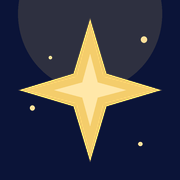
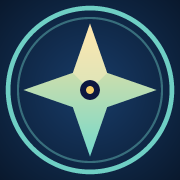
Distinct compass identity, per-day activity ideas, and packing copy-to-all
Identity:
- New compass-rose app icons (generated) and matching in-app brand mark,
  replacing the sparkle borrowed from the exchange app. Bump SW cache.

Activity ideas:
- New optional suggestions[] section. On a Schedule day with matching
  ideas, a banner opens a browser of activity suggestions; Add drops each
  onto the schedule as an editable event. Ideas persist so everyone can
  pick their own. Round-trips through export.

Packing:
- Add 'Copy list to everyone' which merges one person's categories/items
  into every other traveler (keeping existing items, fresh per-person
  checkboxes) so shared essentials like shorts aren't entered by hand
  for each person.

Docs/sample updated for both features.

Claude-Session: https://claude.ai/code/session_01J3NEMum8MujpGRqBUrRXJM

diff --git a/index.html b/index.html
@@ -185,6 +185,23 @@
   .ghostbtn{display:inline-flex;align-items:center;gap:6px;font-size:13px;font-weight:700;padding:9px 14px;border-radius:11px;border:1px dashed var(--line-strong);background:none;color:var(--muted);cursor:pointer;margin:4px 0}
   .ghostbtn svg{width:14px;height:14px}
 
+  /* ---------- Activity ideas (browse & add) ---------- */
+  .ideabar{display:flex;align-items:center;gap:12px;width:calc(100% - 28px);margin:12px 14px 4px;padding:13px 15px;border:1px solid var(--note-line);border-radius:14px;background:var(--note-bg);color:var(--ink);cursor:pointer;text-align:left}
+  .ideabar .ib-ic{font-size:20px;flex:none;line-height:1}
+  .ideabar .ib-tx{flex:1;min-width:0;display:flex;flex-direction:column}
+  .ideabar .ib-tx b{font-size:14px}
+  .ideabar .ib-tx span{font-size:12px;color:var(--muted)}
+  .ideabar .ib-go{font-size:24px;color:var(--aqua);flex:none;line-height:1}
+  .sugcard{position:relative;display:flex;gap:12px;align-items:flex-start;border:1px solid var(--line);border-radius:14px;background:var(--card);padding:13px 14px;margin-bottom:9px;overflow:hidden}
+  .sugcard::before{content:"";position:absolute;left:0;top:0;bottom:0;width:4px;background:var(--accent,var(--t-other))}
+  .sugmain{flex:1;min-width:0}
+  .sugtitle{font-family:var(--serif);font-weight:600;font-size:16px;line-height:1.2}
+  .sugmeta{font-size:12px;color:var(--aqua);margin-top:3px;text-transform:capitalize}
+  .sugnotes{font-size:13px;color:#cfd4ee;margin-top:6px;line-height:1.4}
+  .addsug{flex:none;align-self:center;padding:9px 15px;border-radius:11px;border:0;cursor:pointer;font-size:13px;font-weight:700;background:linear-gradient(180deg,var(--gold-bright),var(--gold));color:#231902}
+  .addsug.added{background:rgba(116,216,203,.14);border:1px solid var(--note-line);color:var(--aqua)}
+  .sugfoot{font-size:12px;color:var(--faint);text-align:center;margin-top:10px;line-height:1.5}
+
   /* ---------- Empty state / onboarding ---------- */
   .empty{max-width:520px;margin:7vh auto 0;text-align:center;padding:22px}
   .empty .bigspark{width:60px;height:60px;color:var(--gold);margin:0 auto 16px;filter:drop-shadow(0 0 18px rgba(244,205,107,.45))}
@@ -277,7 +294,7 @@
   <div class="topwrap">
     <div class="topbar">
       <div class="brand">
-        <svg class="spark" viewBox="0 0 24 24" fill="none" aria-hidden="true"><path d="M12 2l1.6 6.4L20 10l-6.4 1.6L12 18l-1.6-6.4L4 10l6.4-1.6L12 2z" fill="currentColor"/></svg>
+        <svg class="spark" viewBox="0 0 24 24" fill="none" aria-hidden="true"><circle cx="12" cy="12" r="10.2" stroke="currentColor" stroke-width="1.2" opacity=".45"/><path d="M12 2.4l2.3 7.3 7.3 2.3-7.3 2.3L12 21.6l-2.3-7.3L2.4 12l7.3-2.3z" fill="currentColor"/><circle cx="12" cy="12" r="1.7" fill="#0C1740"/></svg>
         <div style="min-width:0">
           <h1 id="tripName">Voyage</h1>
           <p id="tripSub">Trip Companion</p>
@@ -331,7 +348,7 @@
 <!-- ============ ONBOARDING (empty state) ============ -->
 <div id="onboard" class="wrap" style="display:none">
   <div class="empty">
-    <svg class="bigspark" viewBox="0 0 24 24" fill="none" aria-hidden="true"><path d="M12 2l1.6 6.4L20 10l-6.4 1.6L12 18l-1.6-6.4L4 10l6.4-1.6L12 2z" fill="currentColor"/></svg>
+    <svg class="bigspark" viewBox="0 0 24 24" fill="none" aria-hidden="true"><circle cx="12" cy="12" r="10.4" stroke="currentColor" stroke-width="1" opacity=".4"/><circle cx="12" cy="12" r="8.8" stroke="currentColor" stroke-width=".5" opacity=".3"/><path d="M12 2.2l2.4 7.4 7.4 2.4-7.4 2.4L12 21.8l-2.4-7.4L2.2 12l7.4-2.4z" fill="currentColor"/><circle cx="12" cy="12" r="1.8" fill="#0C1740"/></svg>
     <h2>Voyage</h2>
     <p>Your offline trip companion. Load a trip file to see your schedule, reservations, travel, and packing — all on this device.</p>
     <div class="drop" id="drop">
@@ -457,6 +474,8 @@ function normalizeTrip(o){
   t.reservations=Array.isArray(t.reservations)?t.reservations:[];
   t.travel=Array.isArray(t.travel)?t.travel:[];
   t.packing=(t.packing&&typeof t.packing==='object'&&!Array.isArray(t.packing))?t.packing:{};
+  t.suggestions=Array.isArray(t.suggestions)?t.suggestions:[];
+  t.suggestions.forEach(s=>{ if(!s.id)s.id=uid('sug'); });
   t.notes=typeof t.notes==='string'?t.notes:'';
   t.schedule.forEach(e=>{ if(!e.id)e.id=uid('evt'); if(!e.type)e.type='other'; if(typeof e.done!=='boolean')e.done=false; });
   t.reservations.forEach(r=>{ if(!r.id)r.id=uid('res'); if(!Array.isArray(r.party))r.party=r.party?[r.party]:[]; if(!r.category)r.category='other'; if(!r.provider)r.provider='independent'; });
@@ -683,8 +702,34 @@ function renderSchedule(){
     : `<div class="emptymini" style="padding:6px 14px">No dates yet</div>`;
   $('#schDayLabel').textContent=PREFS.day?fmtDay(PREFS.day):'Schedule';
   const items=allItems().filter(i=>i.date===PREFS.day).sort(sortByWhen);
-  $('#schedList').innerHTML = items.length?`<div class="list">${items.map(i=>cardHtml(i)).join('')}</div>`
+  let html = items.length?`<div class="list">${items.map(i=>cardHtml(i)).join('')}</div>`
     : `<div class="emptymini">Nothing planned for this day yet.<br>Tap <b>+ Event</b> to add something.</div>`;
+  const sugs=suggestionsFor(PREFS.day);
+  if(sugs.length) html += `<button class="ideabar" data-ideas="${PREFS.day}"><span class="ib-ic">💡</span><span class="ib-tx"><b>${sugs.length} idea${sugs.length>1?'s':''} for this day</b><span>Browse activities &amp; add them to your schedule</span></span><span class="ib-go">›</span></button>`;
+  $('#schedList').innerHTML = html;
+}
+function suggestionsFor(date){ return (TRIP.suggestions||[]).filter(s=>s.date===date).sort((a,b)=>tmin(a.time)-tmin(b.time)); }
+function sugAdded(s){ return (TRIP.schedule||[]).some(e=>e.date===s.date && e.title===s.title); }
+function openSuggestions(date){
+  const sugs=suggestionsFor(date);
+  let h=`<h3>Ideas · ${esc(fmtDay(date))}</h3>`;
+  h+= sugs.length?`<div>`+sugs.map(s=>{
+    const added=sugAdded(s);
+    const meta=[s.time?fmtTime(s.time):'', s.type||'activity', s.location||''].filter(Boolean).map(esc).join(' · ');
+    return `<div class="sugcard" style="--accent:${accentFor(s.type||'activity')}"><div class="sugmain">
+      <div class="sugtitle">${esc(s.title)}</div>
+      ${meta?`<div class="sugmeta">${meta}</div>`:''}
+      ${s.notes?`<div class="sugnotes">${esc(s.notes)}</div>`:''}
+      ${s.cost?`<div class="cost" style="margin-top:6px">${esc(s.cost)}</div>`:''}
+    </div>${added?`<button class="addsug added" disabled>✓ Added</button>`:`<button class="addsug" data-addsug="${s.id}">Add</button>`}</div>`;
+  }).join('')+`</div>` : `<div class="emptymini">No ideas saved for this day.</div>`;
+  h+=`<div class="sugfoot">Adding puts it on your Schedule — edit the time or details afterward. Ideas stay here so everyone can pick their own.</div>`;
+  openSheet(h);
+}
+function addSuggestion(id){
+  const s=(TRIP.suggestions||[]).find(x=>x.id===id); if(!s) return;
+  TRIP.schedule.push({ id:uid('evt'), title:s.title, date:s.date, time:s.time||'', endTime:s.endTime||'', type:s.type||'activity', location:s.location||'', confirmation:'', notes:s.notes||'', done:false });
+  saveTrip(); renderSchedule(); openSuggestions(s.date); toast('Added to schedule');
 }
 function resAccent(cat){ return cat==='dining'?'var(--t-dining)':cat==='excursion'?'var(--t-excursion)':cat==='spa'?'var(--t-show)':cat==='tour'?'var(--t-activity)':'var(--t-reservation)'; }
 function resCardHtml(r){
@@ -747,8 +792,31 @@ function renderPacking(){
       <button class="minibtn" data-packdel="${esc(person)}|${ci}|${it.id}" aria-label="Remove"><svg viewBox="0 0 24 24" fill="none" stroke="currentColor" stroke-width="2"><path d="M3 6h18M8 6V4h8v2M19 6l-1 14H6L5 6"/></svg></button></div>`; });
     h+=`<button class="ghostbtn" data-packadd="${esc(person)}|${ci}"><svg viewBox="0 0 24 24" fill="none" stroke="currentColor" stroke-width="2.2"><path d="M12 5v14M5 12h14"/></svg>Add item</button></div>`;
   });
-  h+=`<div class="pcat"><button class="ghostbtn" data-catadd="${esc(person)}"><svg viewBox="0 0 24 24" fill="none" stroke="currentColor" stroke-width="2.2"><path d="M12 5v14M5 12h14"/></svg>Add category</button></div>`;
+  h+=`<div class="pcat" style="display:flex;flex-wrap:wrap;gap:8px">
+    <button class="ghostbtn" data-catadd="${esc(person)}"><svg viewBox="0 0 24 24" fill="none" stroke="currentColor" stroke-width="2.2"><path d="M12 5v14M5 12h14"/></svg>Add category</button>`;
+  if((TRIP.trip.travelers||[]).filter(p=>p!==person).length)
+    h+=`<button class="ghostbtn" data-copyall="${esc(person)}"><svg viewBox="0 0 24 24" fill="none" stroke="currentColor" stroke-width="1.9"><rect x="9" y="9" width="13" height="13" rx="2"/><path d="M5 15V5a2 2 0 012-2h10"/></svg>Copy list to everyone</button>`;
+  h+=`</div>`;
   $('#packList').innerHTML=h;
+}
+function copyPackingToAll(srcPerson){
+  const src=TRIP.packing[srcPerson]||[];
+  if(!src.length){ toast('Nothing to copy yet'); return; }
+  const targets=(TRIP.trip.travelers||[]).filter(p=>p!==srcPerson);
+  if(!targets.length) return;
+  if(!confirm(`Copy ${srcPerson}'s packing list to every other traveler? Their existing items are kept — only missing ones are added.`)) return;
+  targets.forEach(tp=>{
+    if(!TRIP.packing[tp]) TRIP.packing[tp]=[];
+    src.forEach(cat=>{
+      let tcat=TRIP.packing[tp].find(c=>(c.category||'').toLowerCase()===(cat.category||'').toLowerCase());
+      if(!tcat){ tcat={ category:cat.category, items:[] }; TRIP.packing[tp].push(tcat); }
+      (cat.items||[]).forEach(it=>{
+        if(!tcat.items.some(x=>(x.text||'').toLowerCase()===(it.text||'').toLowerCase()))
+          tcat.items.push({ id:uid('p'), text:it.text, packed:false });
+      });
+    });
+  });
+  saveTrip(); renderPacking(); toast(`Copied to ${targets.length} traveler${targets.length!==1?'s':''}`);
 }
 function renderSettings(){
   const loaded=META.loadedAt?new Date(META.loadedAt).toLocaleString():'—';
@@ -853,11 +921,14 @@ $('#app').addEventListener('click',e=>{
   const pd=e.target.closest('[data-packdel]'); if(pd){ const [p,ci,iid]=pd.dataset.packdel.split('|'); TRIP.packing[p][ci].items=TRIP.packing[p][ci].items.filter(x=>x.id!==iid); saveTrip(); renderPacking(); return; }
   const pa=e.target.closest('[data-packadd]'); if(pa){ const [p,ci]=pa.dataset.packadd.split('|'); const txt=prompt('Add item'); if(txt&&txt.trim()){ TRIP.packing[p][ci].items.push({id:uid('p'),text:txt.trim(),packed:false}); saveTrip(); renderPacking(); } return; }
   const ca=e.target.closest('[data-catadd]'); if(ca){ const p=ca.dataset.catadd; const name=prompt('New category name'); if(name&&name.trim()){ TRIP.packing[p].push({category:name.trim(),items:[]}); saveTrip(); renderPacking(); } return; }
+  const cp=e.target.closest('[data-copyall]'); if(cp){ copyPackingToAll(cp.dataset.copyall); return; }
+  const id=e.target.closest('[data-ideas]'); if(id){ openSuggestions(id.dataset.ideas); return; }
   const act=e.target.closest('[data-act]'); if(act){ doSettingsAct(act.dataset.act); return; }
   const tog=e.target.closest('#hcToggle'); if(tog){ PREFS.hc=!PREFS.hc; savePrefs(); document.body.classList.toggle('hc',PREFS.hc); tog.setAttribute('aria-pressed',PREFS.hc); return; }
 });
 $('#sheet').addEventListener('click',e=>{
   if(e.target.closest('[data-close]')){ closeSheet(); return; }
+  const as=e.target.closest('[data-addsug]'); if(as){ addSuggestion(as.dataset.addsug); return; }
   const sv=e.target.closest('[data-save]'); if(sv){ const [k,id]=sv.dataset.save.split(':'); saveRecord(k,id||null); return; }
   const dl=e.target.closest('[data-del]'); if(dl){ const [k,id]=dl.dataset.del.split(':'); if(confirm('Delete this item?')) delRecord(k,id); return; }
   const pt=e.target.closest('.partytog'); if(pt){ pt.setAttribute('aria-pressed', pt.getAttribute('aria-pressed')!=='true'); return; }

diff --git a/sw.js b/sw.js
@@ -1,6 +1,6 @@
 /* Voyage service worker — precache the app shell so it runs fully offline.
    Bump CACHE to force clients to pick up new app code. */
-const CACHE = 'voyage-v1';
+const CACHE = 'voyage-v2';
 const ASSETS = [
   './', './index.html', './manifest.webmanifest',
   './icon-192.png', './icon-512.png', './apple-touch-icon.png',

diff --git a/README.md b/README.md
@@ -136,7 +136,12 @@ This is the source of truth — plain JSON, parsed deterministically and offline
 | `reservations[]` | `id`, `category`, `provider`, `title`, `date`, `time`, `location`, `confirmation`, `party[]`, `cost`, `notes` |
 | `travel[]` | `id`, `type`, `title`, `date`, `time`, `confirmation`, `details` |
 | `packing` | object keyed by person → `[{ category, items: [{ id, text, packed }] }]` |
+| `suggestions[]` | *(optional)* activity ideas you can browse per day and add to the schedule: `id`, `date`, `time`, `title`, `type`, `location`, `notes`, `cost` |
 | `notes` | freeform string |
+
+**Activity ideas.** Any `suggestions` whose `date` matches the day you're viewing on the **Schedule** tab show up behind a 💡 banner. Tap it to browse them and **Add** the ones you want — each becomes a normal, editable schedule event. Ideas stay in the list so each traveler can pick their own. Great for a port day or sea day where you're choosing among options.
+
+**Packing — copy to everyone.** Build one person's list, then use **Copy list to everyone** (bottom of their packing list) to push the common items (shorts, t-shirts, etc.) to every traveler. Existing items are kept; only missing ones are added, and each person tracks their own checkboxes.
 
 **Allowed values**
 
